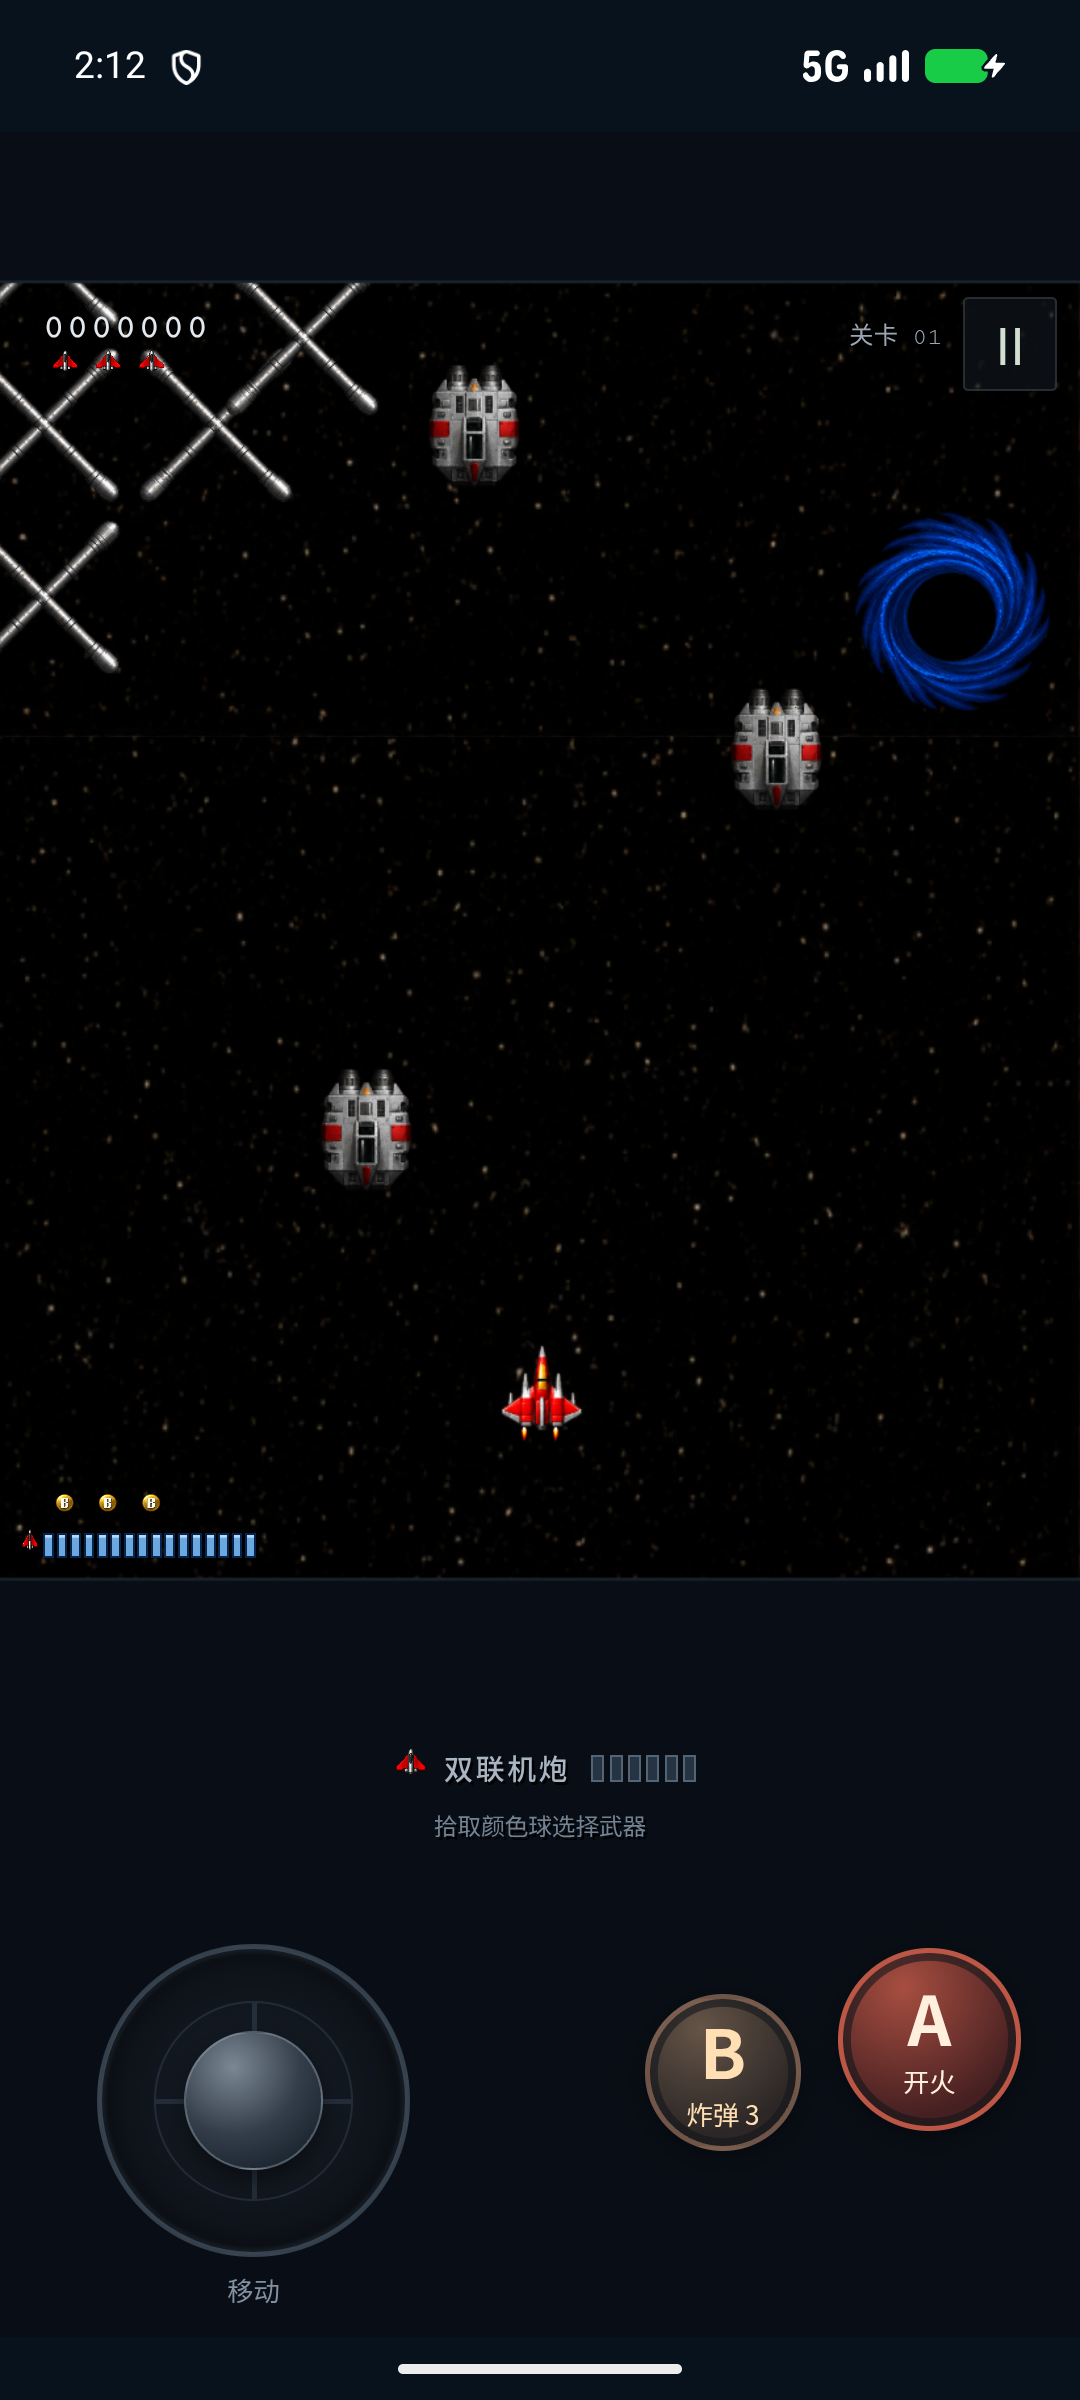
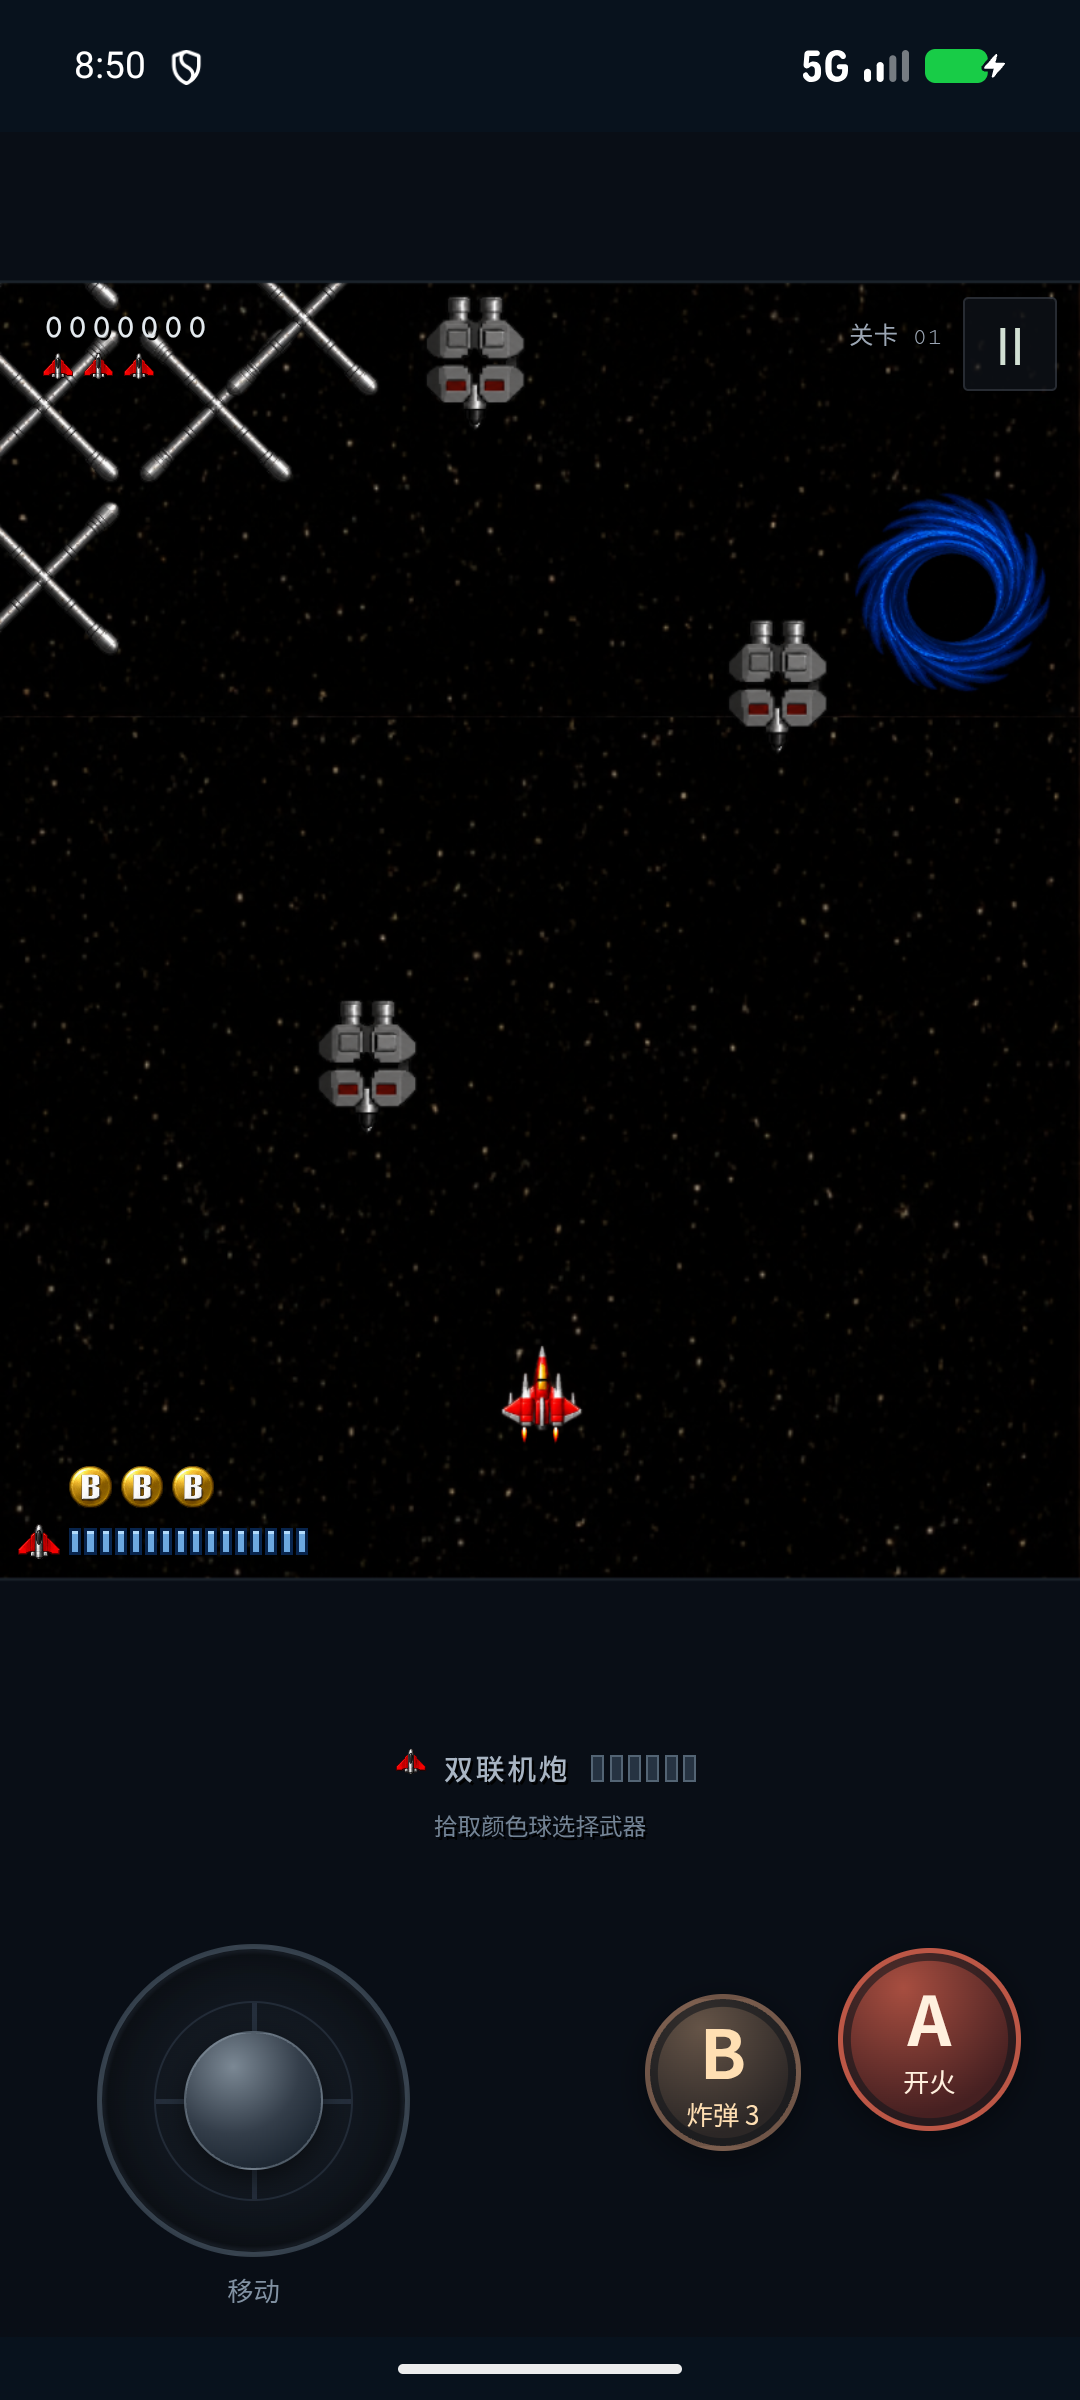
Record v0.2.5 Android and iOS verification

diff --git a/README.md b/README.md
@@ -17,7 +17,7 @@ DemonStar 4.04 的非官方移动端高清复刻，目标 **Android 10+ / iOS 12
 - 普通敌机击毁新增逐帧爆炸；蓝红强化弹按原弹型使用大命中火花，黄色维持小火花。Boss 最终爆炸后才进入结算。
 - 指定地面目标保留焦黑残骸；奖励按剩余炸弹 ×1000、勋章 ×2000 计算且只入账一次。死亡/换关清零勋章。
 
-80 项引擎/声音回归通过。本版双端安装包验收完成后更新构建记录。
+80 项回归、六组浏览器及 Android/iPhone/iPad 模拟器验收通过，版本 0.2.5（7）。详细环境和边界见下方测试记录及 [本版报告](https://github.com/Hashiao/DemonStar-Reborn/releases/download/v0.2.5/verification.json)。
 
 [原作证据与边界](docs/M2_5_RESEARCH.md) · [母舰出击](docs/screenshots/carrier-launch.png) · [命中与击毁](docs/screenshots/hits-and-blasts.png) · [地面残骸](docs/screenshots/ground-remnants.png) · [关末奖励](docs/screenshots/stage-bonus.png) · [内置 imagegen 图集与提示词](docs/ART_M2_5.md)。母舰以本地 4.04 灰色 88 原型为准；特效关键帧和残骸家族仍为重绘近似。
 
@@ -125,7 +125,7 @@ open ios/DemonStar.xcodeproj
 
 ## 测试
 
-M2.4 的 69 项引擎/声音回归与五组浏览器检查通过，覆盖四档难度伤害、连续中弹、撞击双方扣血、重生保护、6→5及后续降档、正确机型、32向炮台、24帧岩石和显示比例。Android Debug/签名 Release、Lint（0 错误、3 提示）及现有 Android 17 / API37 AVD 操作、旋转、后台和设置检查通过。[iOS CI](https://github.com/Hashiao/DemonStar-Reborn/actions/runs/37981829747) 通过 iPhoneOS ARM64 编译和 iOS 18.5 的 iPhone 16 Pro、iPad Pro 11-inch (M4) WKWebView 检查，包括音乐播放时钟与全部新图集加载。两包版本0.2.4（6），游戏脚本、图集与音频资源核验一致；HTML/CSS仅存在平台换行差异，包内路径ASCII。[完整验收记录](https://github.com/Hashiao/DemonStar-Reborn/releases/download/v0.2.4/verification.json)。
+M2.5 的 80 项引擎/声音回归与六组浏览器检查通过，覆盖出击冻结/恢复、广播时序、命中与击毁特效、底栏五种尺寸、残骸、原作奖励及 M2.4 伤害规则。Android Debug/签名 Release、Lint（0 错误、3 提示）及现有 Android 17 / API37 AVD 出击、摇杆/A/B、旋转、后台和设置检查通过。[iOS CI](https://github.com/Hashiao/DemonStar-Reborn/actions/runs/37989366559) 通过 iPhoneOS ARM64 编译和 iOS 18.5 的 iPhone 16 Pro、iPad Pro 11-inch (M4) WKWebView 检查，包括实际经过出击阶段、新图集加载、移动/开火和 BGM 播放。两包版本 0.2.5（7），全部游戏脚本、图集和音频内容核验一致；HTML/CSS 仅有平台换行差异，包内路径 ASCII。[完整验收记录](https://github.com/Hashiao/DemonStar-Reborn/releases/download/v0.2.5/verification.json)。
 
 原始 HP/主武器伤害表与 v0.2.1 一致。最低系统、手机扬声器和原机逐样本 A/B 仍未实测；独立激光启动音 W_PULSE 已定位在 Game3.glb，尚未包含在用户提供的 MP3 清单，“脉冲炮一”是另一资源 W_PULSAR。
 

diff --git a/docs/releases/v0.2.5.md b/docs/releases/v0.2.5.md
@@ -12,3 +12,7 @@
 母舰采用本地 4.04 的灰色 88 原型；爆炸关键帧、舱门时长与八类残骸仍是高清重制近似，尚非完整逐帧 1:1。详见 [本轮证据](https://github.com/Hashiao/DemonStar-Reborn/blob/main/docs/M2_5_RESEARCH.md) 和 [imagegen 来源/提示词](https://github.com/Hashiao/DemonStar-Reborn/blob/main/docs/ART_M2_5.md)。
 
 Android 最低部署目标 10 / API29。iOS 最低部署目标 12.0；`DemonStar.ipa` 是 **unsigned** 设备包，需要自行签名，不能直接安装。最低系统和真机尚未实测。两个安装包、SHA256SUMS.txt 和 verification.json 同批交付。
+
+## 本版验收
+
+M2.5 的 80 项引擎/声音回归与六组浏览器检查通过，覆盖出击冻结/恢复、广播时序、命中与击毁特效、底栏五种尺寸、残骸、原作奖励及 M2.4 伤害规则。Android Debug/签名 Release、Lint（0 错误、3 提示）及现有 Android 17 / API37 AVD 出击、摇杆/A/B、旋转、后台和设置检查通过。[iOS CI](https://github.com/Hashiao/DemonStar-Reborn/actions/runs/37989366559) 通过 iPhoneOS ARM64 编译和 iOS 18.5 的 iPhone 16 Pro、iPad Pro 11-inch (M4) WKWebView 检查，包括实际经过出击阶段、新图集加载、移动/开火和 BGM 播放。两包版本 0.2.5（7），全部游戏脚本、图集和音频内容核验一致；HTML/CSS 仅有平台换行差异，包内路径 ASCII。[完整验收记录](https://github.com/Hashiao/DemonStar-Reborn/releases/download/v0.2.5/verification.json)。
